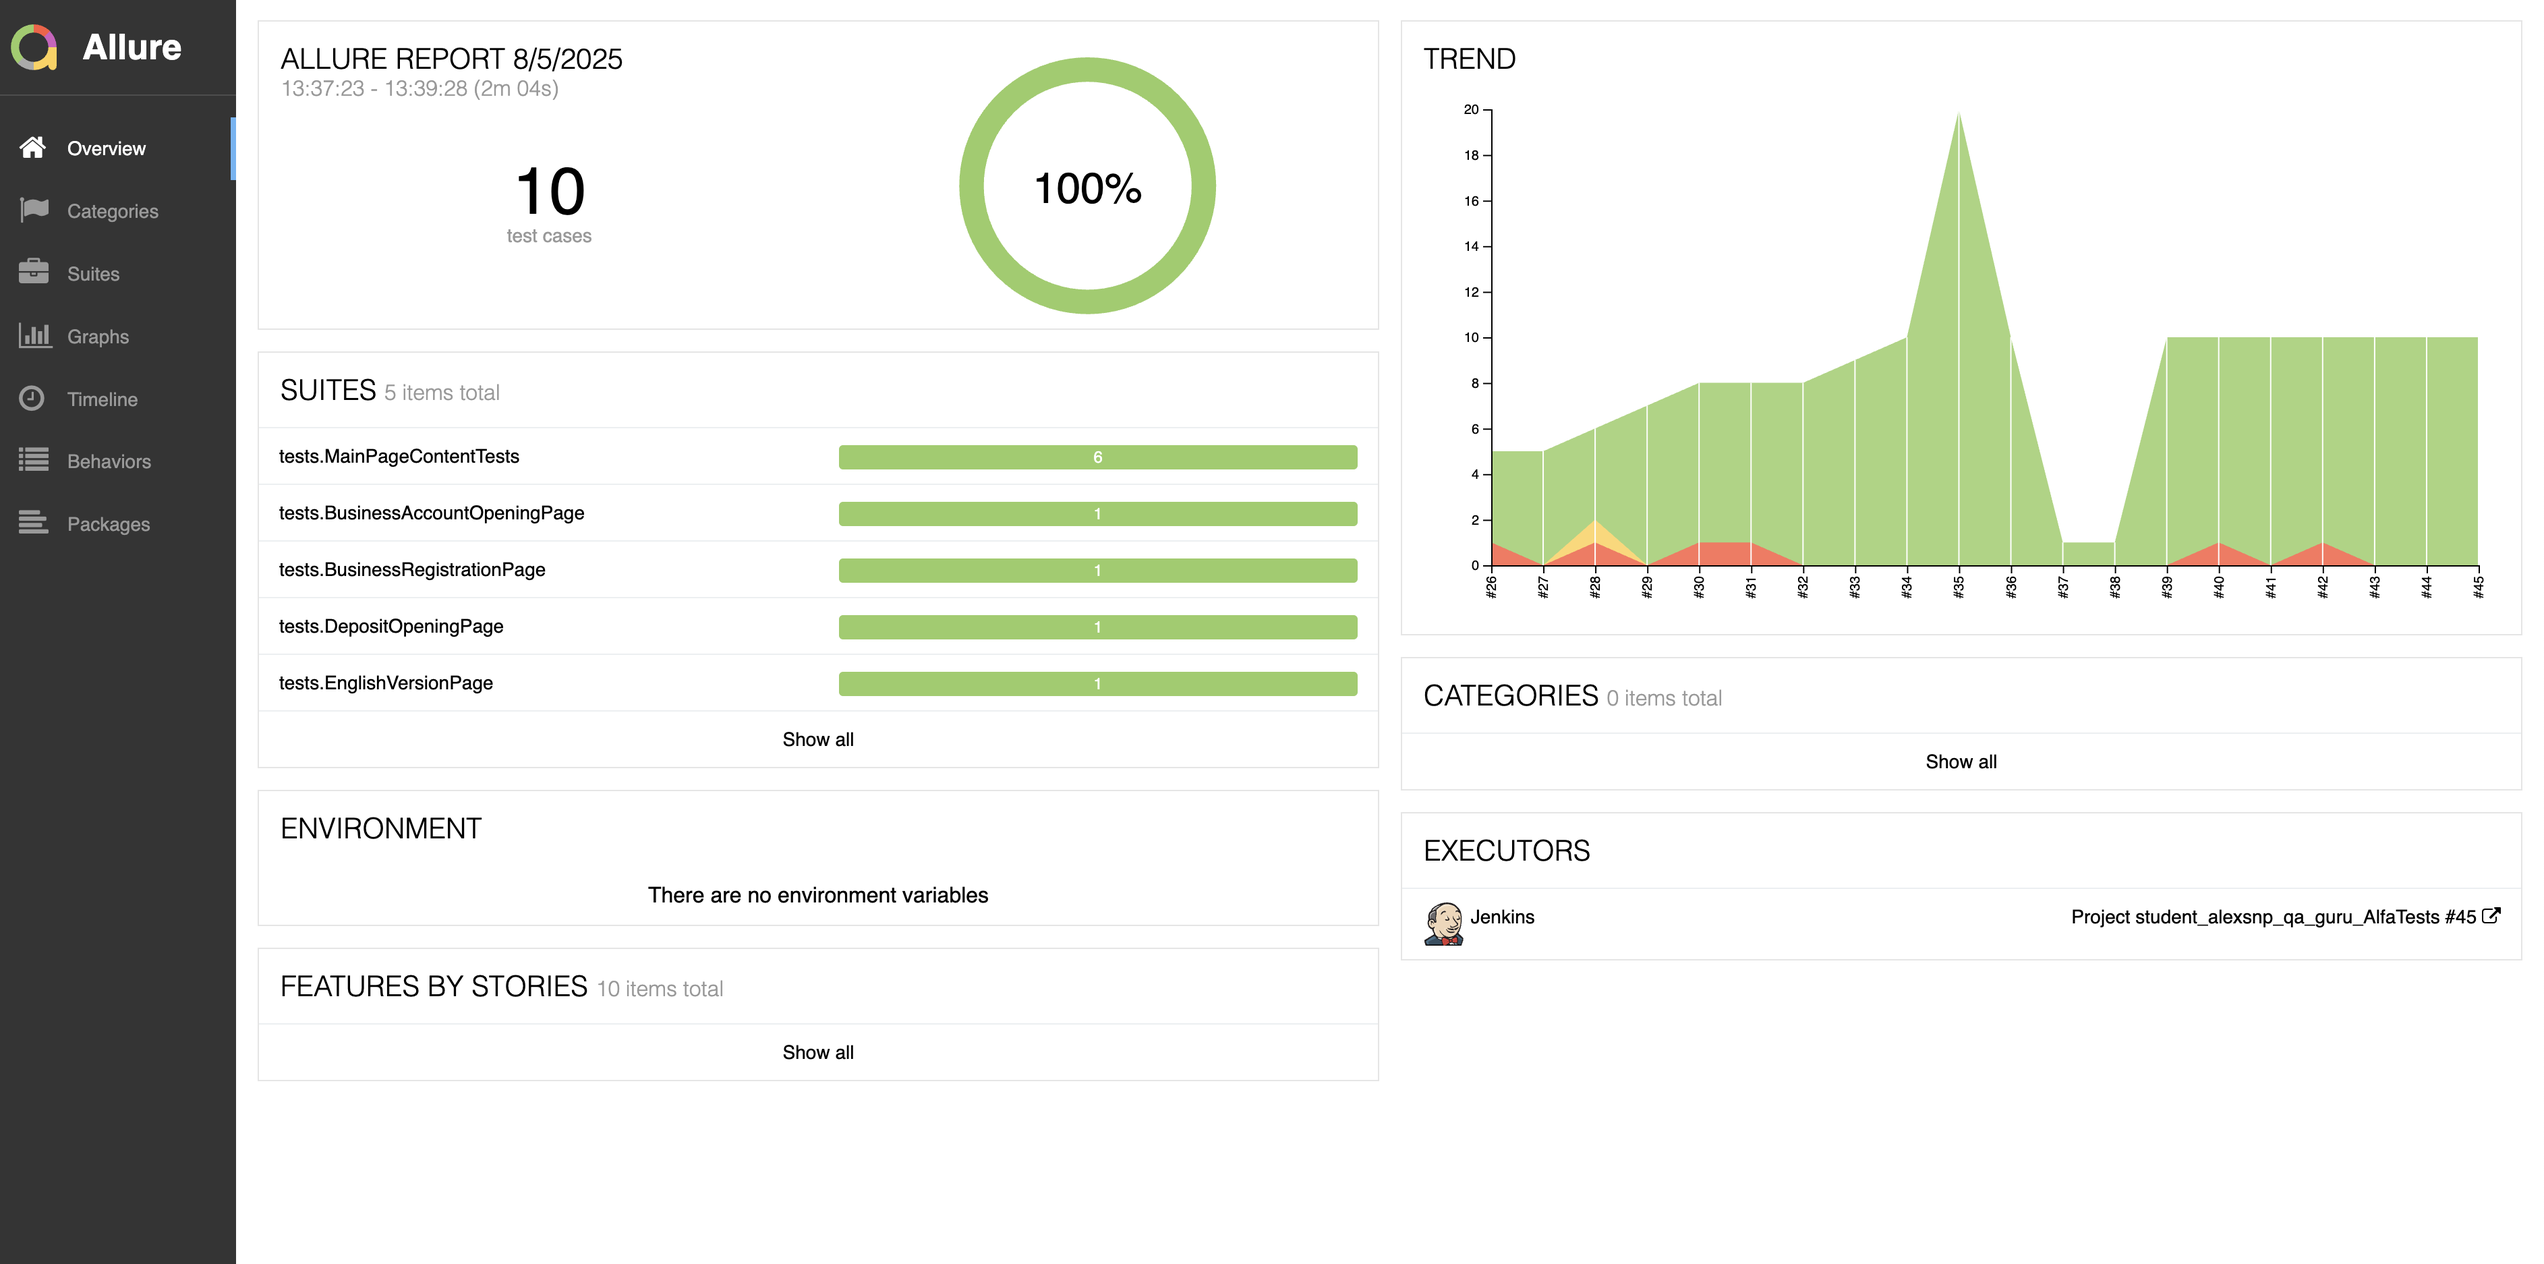
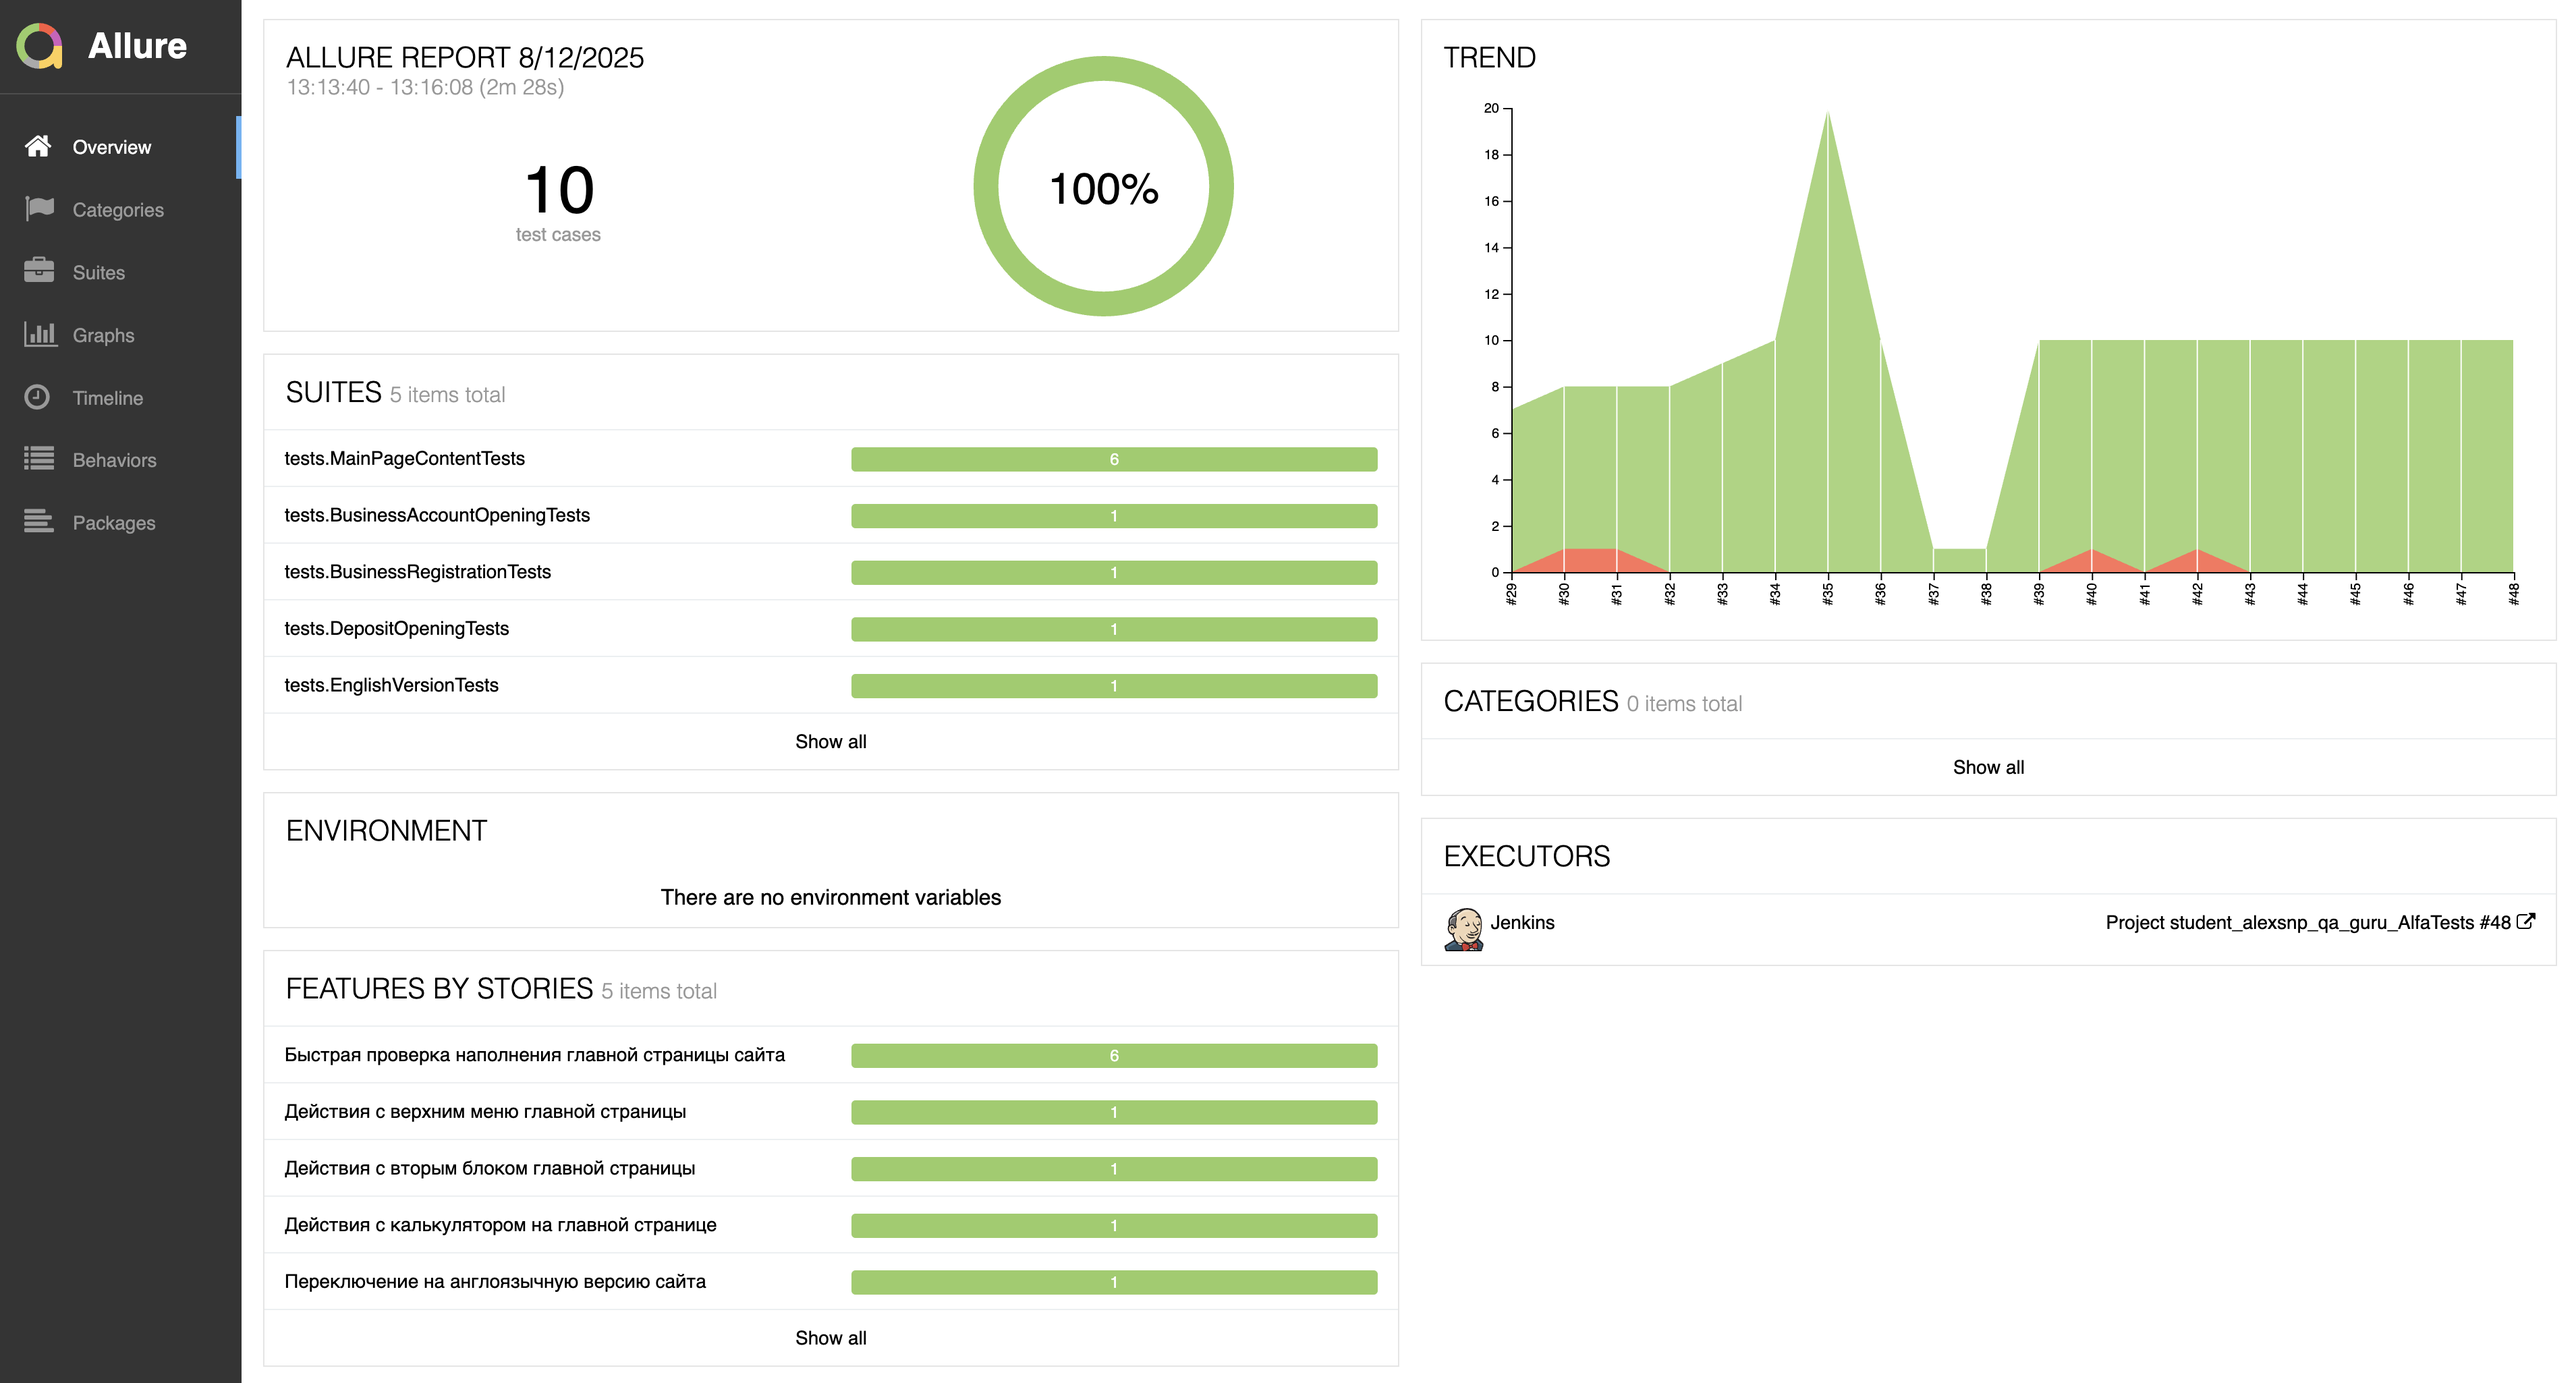
updated README.md

diff --git a/README.md b/README.md
@@ -92,7 +92,7 @@ clean alfa_test
 ```
 ___
 <a id="allure"></a>
-## <img alt="Allure_Report" height="25" src="images/logo/Allure_Report.svg" width="25"/></a> <a name="Allure_Report"></a>Allure [отчет](https://jenkins.autotests.cloud/job/Project%20student_alexsnp_qa_guru_AlfaTests/45/allure/)</a>
+## <img alt="Allure_Report" height="25" src="images/logo/Allure_Report.svg" width="25"/></a> <a name="Allure_Report"></a>Allure [отчет](https://jenkins.autotests.cloud/job/Project%20student_alexsnp_qa_guru_AlfaTests/48/allure/)</a>
 ___
 
 ### *Основная страница отчёта*
